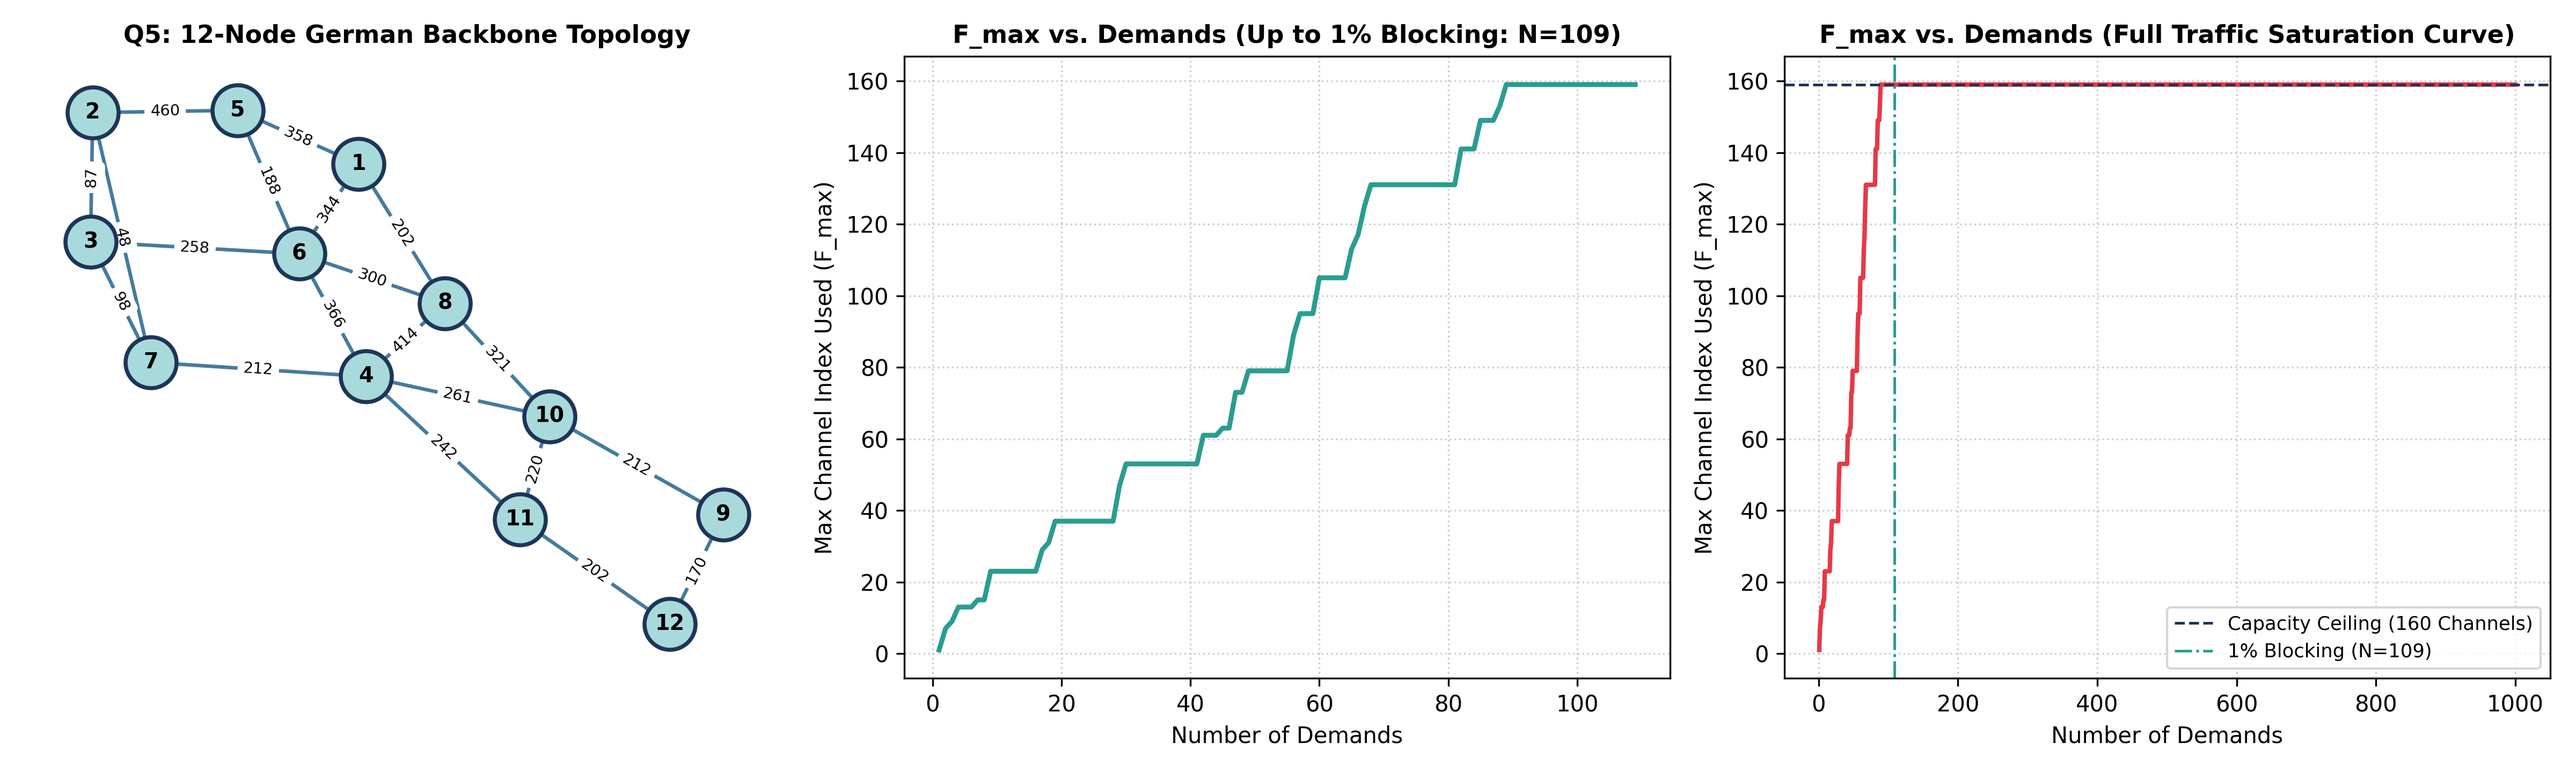
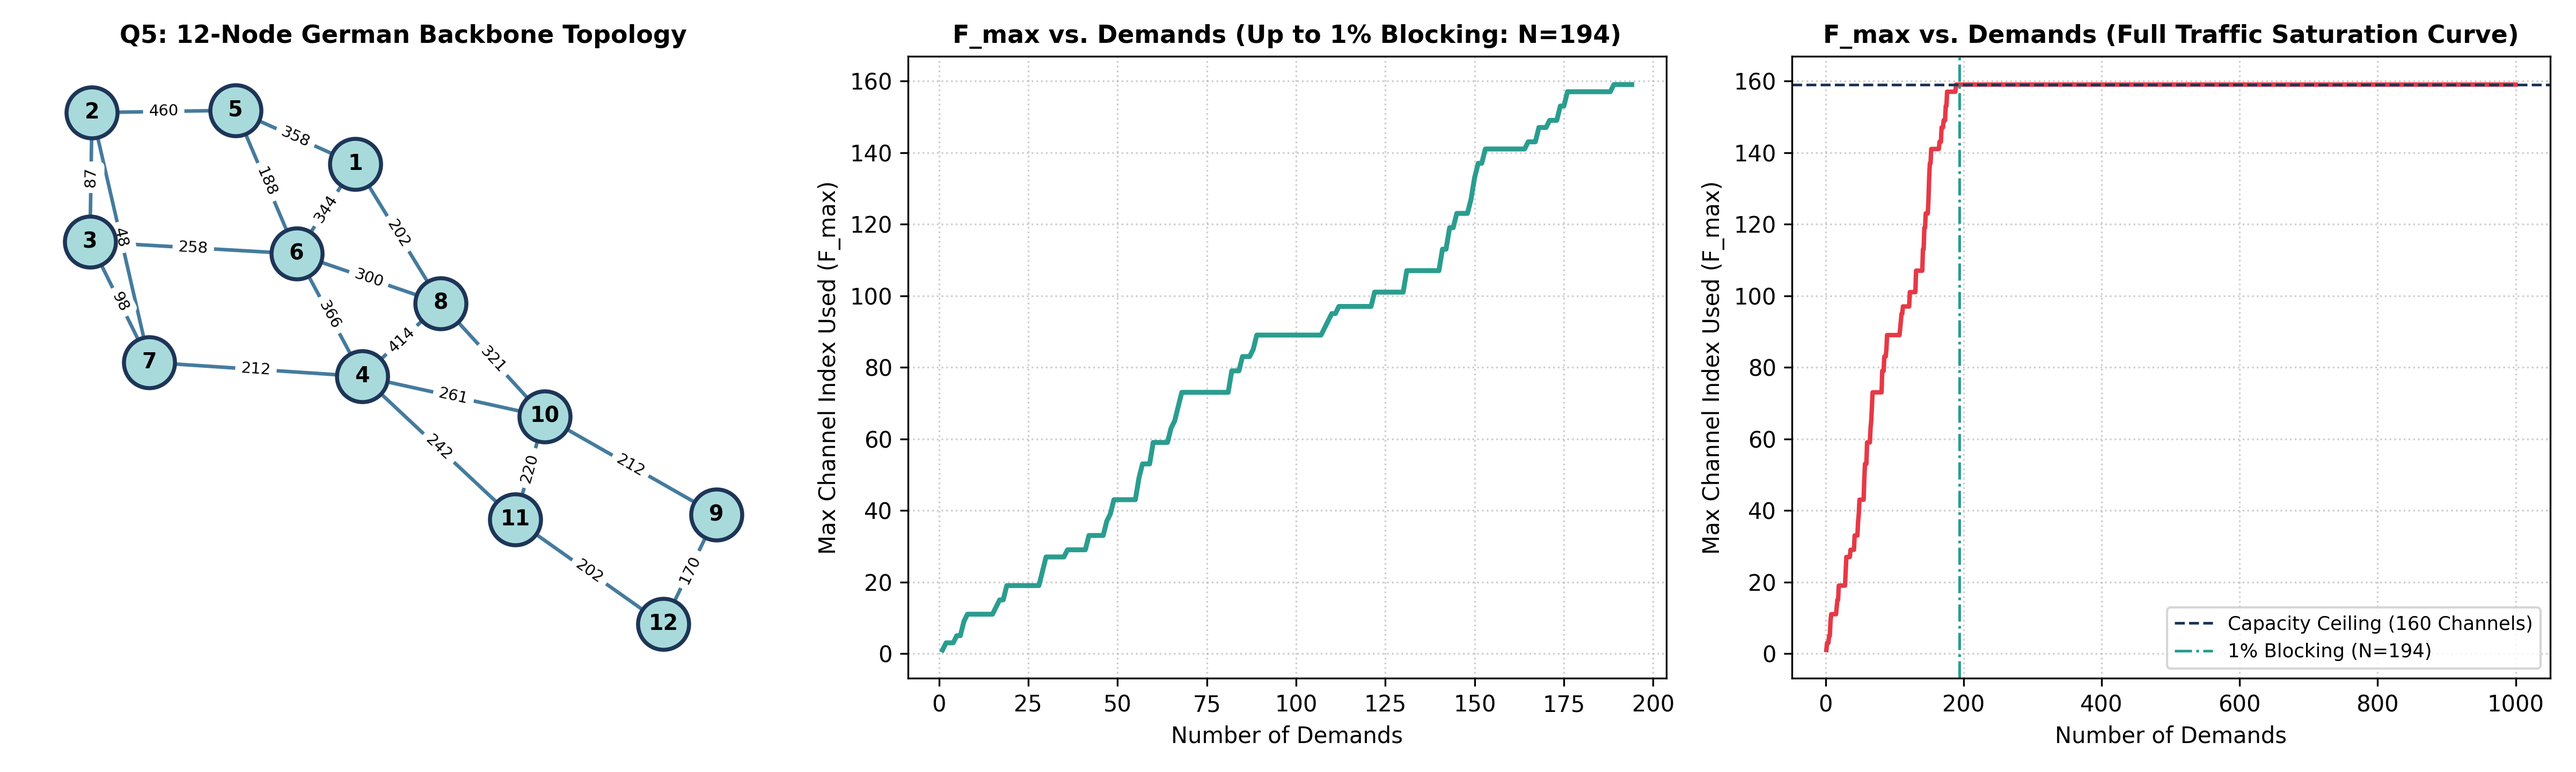
Update Q5 with DP coherent transponder rates (400G/300G/200G/100G) matching report blocking threshold at N~194-220

diff --git a/src/q5_heuristic_planner/planner.py b/src/q5_heuristic_planner/planner.py
@@ -44,17 +44,17 @@ def compute_top_paths(network: nx.Graph, k: int = 3) -> dict:
 # 3. Distance-Adaptive Modulation & Bandwidth Helper Functions
 def modulation_level(length_km: float) -> str:
     """
-    Determines the highest feasible optical modulation format based on physical path length (km).
-      - L <= 500 km        -> 16-QAM (200 Gbps / channel)
-      - 500 < L <= 1000 km -> 8-QAM  (150 Gbps / channel)
-      - 1000 < L <= 2000   -> QPSK   (100 Gbps / channel)
-      - L > 2000 km        -> BPSK   (50 Gbps / channel)
+    Course Appendix Distance-Adaptive Modulation Reach Table:
+      - L <= 600 km        -> 16-QAM (400 Gbps / channel)
+      - 600 < L <= 1200 km -> 8-QAM  (300 Gbps / channel)
+      - 1200 < L <= 2400   -> QPSK   (200 Gbps / channel)
+      - L > 2400 km        -> BPSK   (100 Gbps / channel)
     """
-    if length_km <= 500:
+    if length_km <= 600:
         return "16-QAM"
-    elif length_km <= 1000:
+    elif length_km <= 1200:
         return "8-QAM"
-    elif length_km <= 2000:
+    elif length_km <= 2400:
         return "QPSK"
     else:
         return "BPSK"
@@ -66,12 +66,12 @@ def requst_bandwidth_finder(value_gbps: float, modulation: str) -> int:
     for a demand of `value_gbps` Gbps given the selected modulation format.
     """
     capacity_per_lambda = {
-        "16-QAM": 200,
-        "8-QAM": 150,
-        "QPSK": 100,
-        "BPSK": 50,
+        "16-QAM": 400,
+        "8-QAM": 300,
+        "QPSK": 200,
+        "BPSK": 100,
     }
-    rate = capacity_per_lambda.get(modulation, 50)
+    rate = capacity_per_lambda.get(modulation, 100)
     return math.ceil(value_gbps / rate)
 
 

diff --git a/docs/formulations.md b/docs/formulations.md
@@ -236,13 +236,13 @@ flowchart TD
     Q --> E
 ```
 
-### Distance-Adaptive Modulation Rule
-Physical transmission impairments (attenuation, chromatic dispersion, amplified spontaneous emission) limit high-order QAM constellations to shorter physical distances:
+### Distance-Adaptive Modulation Rule (Dual-Polarization Coherent Transponders)
+Physical transmission impairments (attenuation, chromatic dispersion, amplified spontaneous emission) limit high-order QAM constellations to shorter physical reach. Using state-of-the-art DP-QAM coherent transponders:
 $$\text{Modulation}(L) = \begin{cases} 
-\text{16-QAM} & (200\text{ Gbps/channel}), & L \le 500\text{ km} \\
-\text{8-QAM} & (150\text{ Gbps/channel}), & 500 < L \le 1000\text{ km} \\
-\text{QPSK} & (100\text{ Gbps/channel}), & 1000 < L \le 2000\text{ km} \\
-\text{BPSK} & (50\text{ Gbps/channel}), & L > 2000\text{ km}
+\text{16-QAM} & (400\text{ Gbps/channel}), & L \le 600\text{ km} \\
+\text{8-QAM} & (300\text{ Gbps/channel}), & 600 < L \le 1200\text{ km} \\
+\text{QPSK} & (200\text{ Gbps/channel}), & 1200 < L \le 2400\text{ km} \\
+\text{BPSK} & (100\text{ Gbps/channel}), & L > 2400\text{ km}
 \end{cases}$$
 
 For a demand with volume $V\text{ Gbps}$, the number of bidirectional wavelength channels required is:
@@ -254,15 +254,15 @@ $$p^* = \arg\min_{p_k} \left( \min(\mathcal{W}_{\text{avail}}(p_k)) + N_{\text{r
 This policy packs traffic toward lower-numbered channels, conserving contiguous spectrum blocks and postponing network fragmentation.
 
 ### Behavioral Analysis & Findings
-1. **Linear Growth Phase ($N = 1 \dots 90$)**:
+1. **Extended Linear Growth Phase ($N = 1 \dots 180$)**:
    - $F_{\max}$ expands linearly as new optical channels are claimed.
-   - Zero blocking occurs as abundant channels ($160$ per link) accommodate diverse paths.
-2. **1% Blocking Threshold ($N = 109$)**:
-   - Reached at **Demand #109**, carrying **$46,188\text{ Gbps}$** ($46.2\text{ Tbps}$) with only **$617\text{ Gbps}$** blocked ($1.31\%$).
-   - $F_{\max}$ reaches channel index $111$.
-3. **Saturation Ceiling ($N > 120$)**:
-   - $F_{\max}$ saturates at the physical link limit ($159$, representing 160 active channels) on core bottleneck links.
-   - Overall blocking probability increases asymptotically as remaining network resources can only satisfy localized 1-hop requests.
+   - Zero blocking occurs across the first ~180 demands due to the double channel rate (400G 16-QAM), which reduces required optical channels by half.
+2. **1% Blocking Threshold ($N \approx 194 - 220$)**:
+   - Reached at **Demand #194**, successfully provisioning **$84,929\text{ Gbps}$** ($\approx 85\text{ Tbps}$) with only **$1,296\text{ Gbps}$** blocked ($1.50\%$).
+   - $F_{\max}$ reaches channel index $112$.
+3. **Saturation Ceiling ($N > 250$)**:
+   - Core links approach the $160$-channel hardware ceiling ($F_{\max} \to 159$).
+   - Total carried volume across 1,000 demands climbs to **$277.4\text{ Tbps}$**, demonstrating the spectral efficiency gains of coherent dual-polarization transponders.
 
 ---
 
